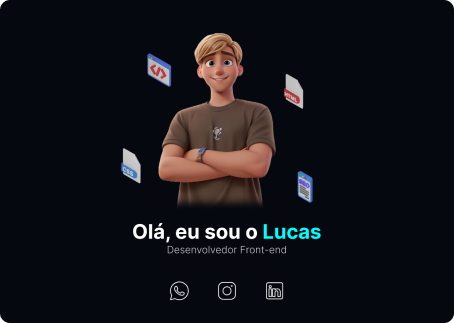
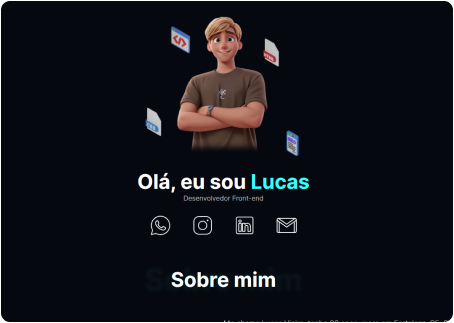
Atualização do Readme

diff --git a/README.md b/README.md
@@ -1,19 +1,49 @@
 # Meu Portfólio
 
-<p>Olá, me chamo <strong>Lucas Vieira</strong>, tenho 23 anos, sou técnico em Redes de Computadores e estou estudando para ser um Desenvolvedor Full Stack.</p>
+<p id="sobre">Olá, me chamo <strong>Lucas Vieira</strong>, tenho 23 anos, sou técnico em Redes de Computadores e estou estudando para ser um Desenvolvedor Full Stack.</p>
 
-<h2>Redes Sociais</h2>
+<img src="./assets/images/demo.png" alt="Demonstração do portfólio">
+
+<h2>Tabela de Conteúdos</h2>
+<p align="center">
+ <a href="#sobre">Sobre</a> •
+ <a href="#tecnologias">Tecnologias</a> • 
+ <a href="#redes-sociais">Redes Sociais</a> • 
+ <a href="#autor">Autor</a>
+</p>
+
+<h2 id="redes-sociais">Redes Sociais</h2>
 <div>
-<a href="https://www.linkedin.com/in/lucvieira/">
-    <img src="./assets/images/redes_sociais/linkedin_icon.svg" alt="LinkedIn" width=35>
+<a href="https://www.linkedin.com/in/lucvieira/" target="_blank">
+    <img src="./assets/images/social-medias/linkedin-icon-colored.svg" alt="LinkedIn" width=35>
 </a>
-<a href="mailto:lukasveras14@gmail.com">
-    <img src="./assets/images/redes_sociais/github_icon.svg" alt="Github" width=35>
+<a href="https://github.com/lucavieira" target="_blank">
+    <img src="./assets/images/hard-skills/github-icon.svg" alt="Github" width=35>
 </a>
-<a href="https://www.instagram.com/luckyss.v/">
-    <img src="./assets/images/redes_sociais/instagram_icon.svg" alt="Instagram" width=35>
+<a href="https://www.instagram.com/luketes.v/" target="_blank">
+    <img src="./assets/images/social-medias/instagram-icon-colored.svg" alt="Instagram" width=35>
 </a>
-<a href="https://www.instagram.com/luckyss.v/">
-    <img src="./assets/images/redes_sociais/tiktok_icon.svg" alt="TikTok" width=35>
+<a href="mailto:lukasveras14@gmail.com" target="_blank">
+    <img src="./assets/images/social-medias/gmail-icon-colored.svg" alt="Gmail" width=35>
 </a>
 </div>
+
+<h2 id="tecnologias">Tecnologias</h2>
+<ul>
+    <li><strong>HTML</strong> - Estrutura da página</li>
+    <li><strong>CSS</strong> - Estilização da página</li>
+    <li><strong>Javascript</strong> - Interatividade</li>
+</ul>
+
+<h2>Autor</h2>
+
+<a href="https://github.com/lucavieira">
+    <img style="border-radius: 50%;" src="https://avatars.githubusercontent.com/u/63080209?v=4" width="100px;" alt="Minha foto de perfil"/>
+    <br>
+    <a href="https://github.com/lucavieira" title="Github">Lucas Vieira</a>
+</a>
+
+Feito com ❤ por Lucas Vieira 👋🏽 Entre em contato!
+
+[![Linkedin Badge](https://img.shields.io/badge/-Lucas-blue?style=flat-square&logo=Linkedin&logoColor=white&link=https://www.linkedin.com/in/lucvieira/)](https://www.linkedin.com/in/lucvieira/) 
+[![Gmail Badge](https://img.shields.io/badge/-lukasveras14@gmail.com-c14438?style=flat-square&logo=Gmail&logoColor=white&link=mailto:lukasveras14@gmail.com)](mailto:lukasveras14@gmail.com)
